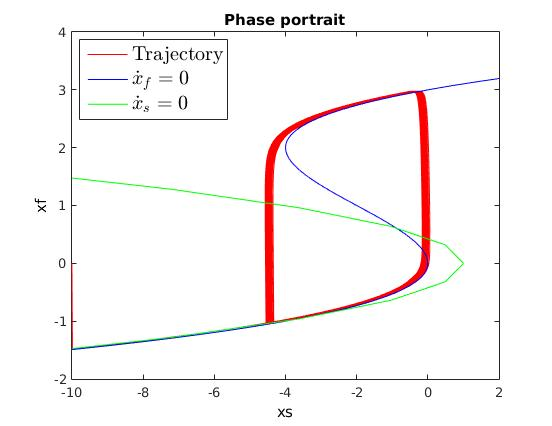
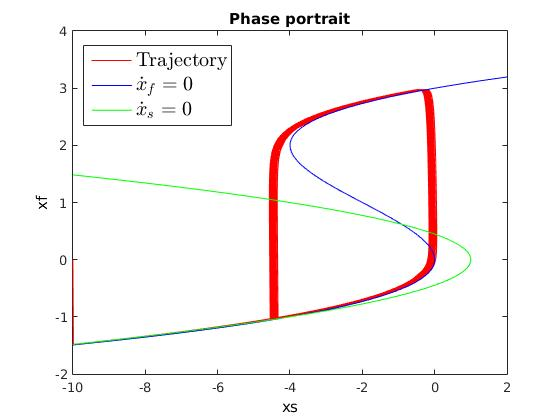
hRose figures

diff --git a/bursting/Bistability/hRose.m b/bursting/Bistability/hRose.m
@@ -43,7 +43,7 @@ plot(SimOut.get('xs').Data,SimOut.get('xf').Data,'r')
 hold on
 h1 = ezplot(@(x,y) cubicNullcline(y,x),[-10,5]);
 set(h1,'LineColor','b')
-h2 = ezplot(@(x,y) quadraticNullcline(y,x),[-40,40]);
+h2 = ezplot(@(x,y) quadraticNullcline(y,x),[-10,5]);
 set(h2,'LineColor','g')
 % h3 = ezplot(@ (x,y) -0.1*x+0.5-y ,[-40,40]);
 % set(h3,'LineColor','m')
@@ -76,4 +76,39 @@ title('Phase portrait')
 % % subplot(1,2,2)
 % % plot(SimOut.get('xf').Time,SimOut.get('xf').Data,'b')
 
+
+% Plot different intersections of the nullclines
+zMin = 1.75;
+zMax = 2.00;
+cubicNullcline2 = @(x,y,z) y+3*x.^2-x.^3 + 2-z;
+figure(4)
+N = 2;
+alphaArray = linspace(zMin,zMax, N);
+for i = 1:N
+    subplot(1,N,i)
+    hold on
+    z = alphaArray(i);
+    H1 = ezplot(@(x,y) cubicNullcline2(y,x,z),[-20,5]);
+    set(H1,'LineColor','b')
+    H2 = ezplot(@(x,y) quadraticNullcline(y,x),[-20,5]);
+    set(H2,'LineColor','g')
+    l3 = legend('$\dot{x}_f = 0$','$\dot{x}_s = 0$');
+    set(l3,'Interpreter','latex','FontSize',15)
+    xlabel('xs')
+    ylabel('xf')
+    t = sprintf('Equilibrium positions with x_{us} = %-2d',z);
+    title(t)
+    axis([-20,2,-2,4])
+end
+figure(4)
+subplot(1,2,1)
+h{1} = plot(-1.3274,0.6811,'or');
+subplot(1,2,2)
+h{2} = plot(-0.9075,0.6165,'or');
+h{3} = plot(-4,-1,'xr');
+h{4} = plot(-12.052,-1.6153,'or');
+for i = 1:4
+    set(h{i}, 'MarkerSize',9);
+end
+set(h{4},'MarkerEdgeColor','r','MarkerFaceColor','r');
 
